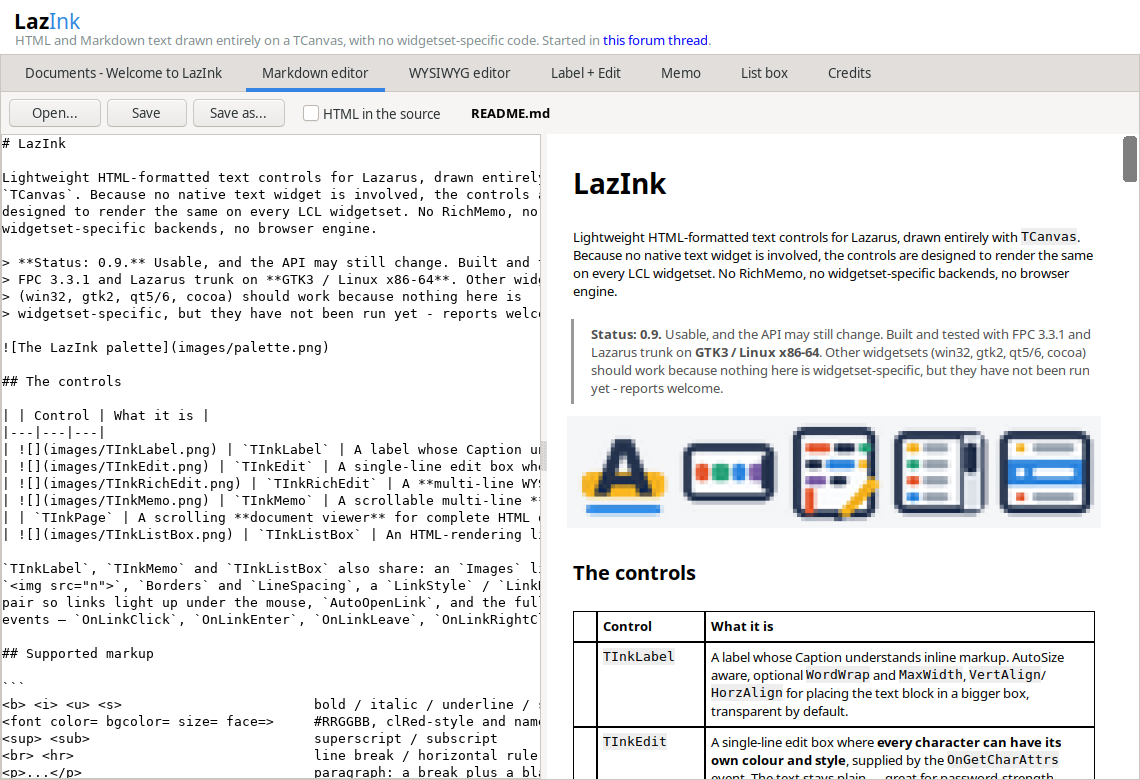
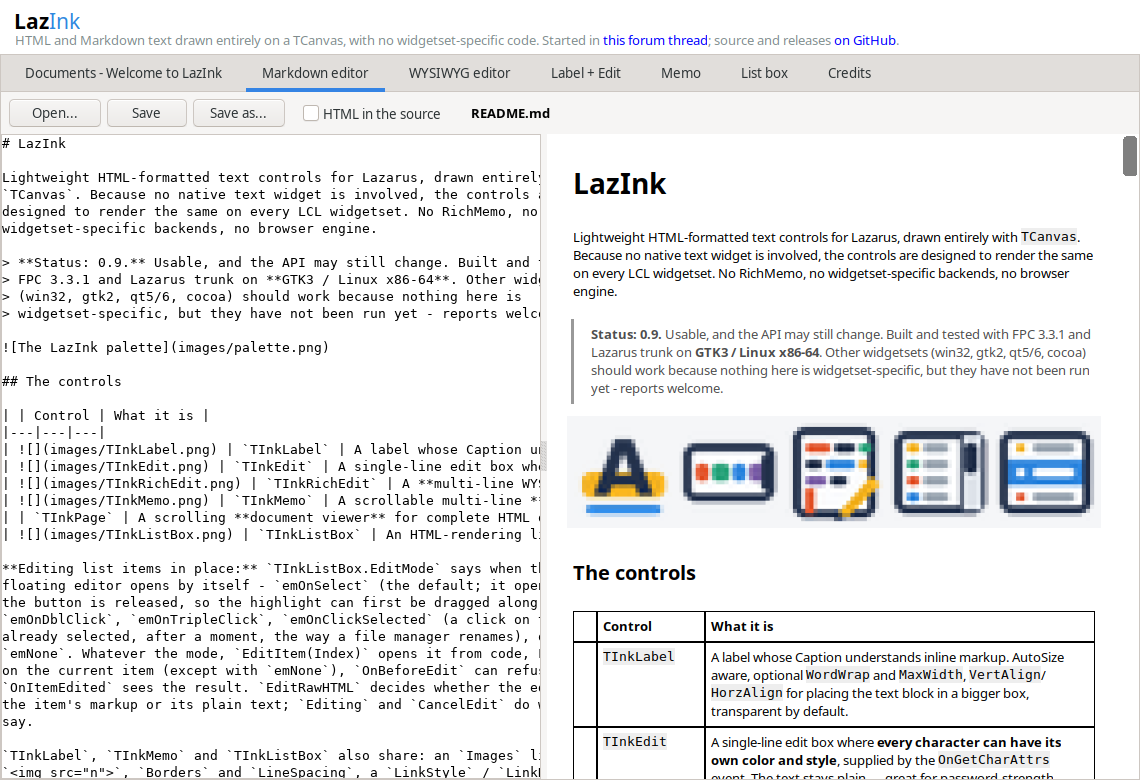
Triple-click, list editing your way, and US spelling
Triple-click did nothing on a page under GTK3: the backend reports a
triple click's third press as a plain press, so ssTriple never came.
TInkPage now counts clicks itself - and does not count GTK's repeated
press of a double click as one more.

TInkListBox:
- EditMode gains emOnTripleClick and emOnClickSelected (a click on the
  selected item, after a moment, as a file manager renames).
- EditItem opens the editor whatever the mode; F2 opens it except with
  emNone; Editing and CancelEdit are public.
- With the button held, the highlight follows the pointer and the list
  scrolls past its ends; emOnSelect opens the editor on the release.
- The first item could never be edited (its top of 0 was read as
  scrolled away), and the floating edit fought the theme over its height
  until LCL stopped with a layout loop.  It keeps its own height now,
  centered on the row, and only moves when something changed.

The demo's List box tab picks the edit mode, and its header links to the
GitHub page as well as the forum thread.

Everything is in US English now: color, center, license, gray.

diff --git a/README.md b/README.md
@@ -17,11 +17,22 @@ widgetset-specific backends, no browser engine.
 | | Control | What it is |
 |---|---|---|
 | ![](images/TInkLabel.png) | `TInkLabel` | A label whose Caption understands inline markup. AutoSize aware, optional `WordWrap` and `MaxWidth`, `VertAlign`/`HorzAlign` for placing the text block in a bigger box, transparent by default. |
-| ![](images/TInkEdit.png) | `TInkEdit` | A single-line edit box where **every character can have its own colour and style**, supplied by the `OnGetCharAttrs` event. The text stays plain — great for password-strength colouring, highlighting digits/symbols, or syntax-colouring markup as it is typed. Full editing: caret, selection, clipboard, MaxLength, ReadOnly, alignment. |
-| ![](images/TInkRichEdit.png) | `TInkRichEdit` | A **multi-line WYSIWYG editor**. The caret and the selection sit inside the rendered text: select a word, call `ToggleStyle(fsBold)`, and that run stops being plain. Per-character colour, background, size, face, style, super/subscript and links; word wrap; paragraph alignment; undo/redo; a `Markup` property that round-trips to the markup below. |
+| ![](images/TInkEdit.png) | `TInkEdit` | A single-line edit box where **every character can have its own color and style**, supplied by the `OnGetCharAttrs` event. The text stays plain — great for password-strength coloring, highlighting digits/symbols, or syntax-coloring markup as it is typed. Full editing: caret, selection, clipboard, MaxLength, ReadOnly, alignment. |
+| ![](images/TInkRichEdit.png) | `TInkRichEdit` | A **multi-line WYSIWYG editor**. The caret and the selection sit inside the rendered text: select a word, call `ToggleStyle(fsBold)`, and that run stops being plain. Per-character color, background, size, face, style, super/subscript and links; word wrap; paragraph alignment; undo/redo; a `Markup` property that round-trips to the markup below. |
 | ![](images/TInkMemo.png) | `TInkMemo` | A scrollable multi-line **viewer** — a log, a transcript, formatted help. Each line of `Lines` is one paragraph of markup, lines can differ in height, optional `WordWrap`. |
 | | `TInkPage` | A scrolling **document viewer** for complete HTML or Markdown pages: headings, lists, tables, code and key labels, PNG and animated GIF images, relative links, anchors, Back and Forward, and a small stylesheet reader. See [Complete help pages](#complete-help-pages). |
 | ![](images/TInkListBox.png) | `TInkListBox` | An HTML-rendering listbox with an in-place editor that floats over the clicked item, holding either its plain text or (with `EditRawHTML`) its markup. Optional `AlternateColor` striping. |
+
+**Editing list items in place:** `TInkListBox.EditMode` says when the
+floating editor opens by itself - `emOnSelect` (the default; it opens when
+the button is released, so the highlight can first be dragged along the list),
+`emOnDblClick`, `emOnTripleClick`, `emOnClickSelected` (a click on the item
+already selected, after a moment, the way a file manager renames), or
+`emNone`. Whatever the mode, `EditItem(Index)` opens it from code, F2 opens it
+on the current item (except with `emNone`), `OnBeforeEdit` can refuse, and
+`OnItemEdited` sees the result. `EditRawHTML` decides whether the editor holds
+the item's markup or its plain text; `Editing` and `CancelEdit` do what they
+say.
 
 `TInkLabel`, `TInkMemo` and `TInkListBox` also share: an `Images` list for
 `<img src="n">`, `Borders` and `LineSpacing`, a `LinkStyle` / `LinkHoverStyle`
@@ -32,7 +43,7 @@ events — `OnLinkClick`, `OnLinkEnter`, `OnLinkLeave`, `OnLinkRightClick`.
 
 ```
 <b> <i> <u> <s>                        bold / italic / underline / strikeout
-<font color= bgcolor= size= face=>     #RRGGBB, clRed-style and named colours
+<font color= bgcolor= size= face=>     #RRGGBB, clRed-style and named colors
 <sup> <sub>                            superscript / subscript
 <br> <hr>                              line break / horizontal rule
 <p>...</p>                             paragraph: a break plus a blank line
@@ -98,7 +109,7 @@ CSS grid cards become a vertical list. No browser engine is added.
 InkPage1.LoadFromFile('/path/to/help/index.html');
 ```
 
-It reads Markdown just as well - a `.md` file is recognised by its name, and
+It reads Markdown just as well - a `.md` file is recognized by its name, and
 `LoadMarkdown` takes a string. Relative images and links are resolved against
 the document. A Markdown document has no stylesheet of its own, so
 `StyleSheet` lets the program dress it in its own theme; the page's own rules,
@@ -117,19 +128,19 @@ face, on a shaded background, and a long line is cut off at the block's edge
 rather than wrapped. Quotes get a bar down their left side.
 
 **Its scrollbar** is drawn by LazInk (`TInkScrollBar`), so it can wear the
-page's colours instead of the platform's grey.  It reads the same CSS a
+page's colors instead of the platform's gray.  It reads the same CSS a
 browser does:
 
 ```css
 html { scrollbar-color: #4ab3e8 #1b1e24; scrollbar-width: thin; }
 ```
 
-`scrollbar-color` is the thumb, then the track - `#rgb`, `#rrggbb`, a colour
+`scrollbar-color` is the thumb, then the track - `#rgb`, `#rrggbb`, a color
 name, `rgb()`/`rgba()`, `currentcolor`, or a `var()` holding any of those.
 `scrollbar-width` is `auto`, `thin` or `none` (none hides the bar; the page
 still scrolls).  Both are read from `html` or `:root`, then `body`.  Without
 them, the track is the page background and the thumb sits halfway between
-that and the text colour, so a dark page gets a dark bar with no CSS at all.
+that and the text color, so a dark page gets a dark bar with no CSS at all.
 `InkPage1.ScrollBar` reaches it from code.
 
 **Touch screens:** drag the page with a finger (or the left mouse button) to
@@ -208,7 +219,7 @@ WYSIWYG editor. Rich-editor table editing is not implemented.
 The shared renderer supports simple `<table>`, `<tr>`, `<th>` and `<td>`
 blocks, including multiple tables mixed with text. Columns are sized from their
 content and narrowed to the available width, cell text wraps, headers are bold,
-and borders use the current font colour. Links inside cells retain click and
+and borders use the current font color. Links inside cells retain click and
 hover support. List boxes now measure variable-height rows, with `ItemHeight`
 as their minimum height.
 
@@ -321,7 +332,7 @@ LazInk renders a **subset** of HTML, on purpose. It is not a web browser:
 * The Markdown is GitHub's, as documents use it, not CommonMark-complete:
   emphasis follows simpler rules than the specification, a link reference
   definition has to fit on one line, and footnotes are not read.
-* LazInk shows code blocks but does not colour them - for that, use SynEdit.
+* LazInk shows code blocks but does not color them - for that, use SynEdit.
 * No built-in HTTP downloads - a host supplies remote content through
   `OnResource`.
 
@@ -350,7 +361,7 @@ survived into the rendered page.
 [ROADMAP.md](ROADMAP.md) is the plan: touch scrolling on Linux, copying and
 selecting text, fuller Markdown, a Markdown editor in the demo; then a
 renderer of LazInk's own, replacing the JVCL-derived one so the whole
-package can move to a no-conditions licence; and a WYSIWYG Markdown editor
+package can move to a no-conditions license; and a WYSIWYG Markdown editor
 after that - with what "done" means for each.
 
 ## Credits and origins
@@ -360,7 +371,7 @@ after that - with what "done" means for each.
 In August 2021 Tony Stone started a thread on the Lazarus forum,
 [Memo Component that supports HTML markup](https://forum.lazarus.freepascal.org/index.php/topic,55971.0.html),
 asking for a simple way to decorate text in list boxes and memos with a
-little HTML - mostly colour and bold - for showing log files, without
+little HTML - mostly color and bold - for showing log files, without
 pulling in a heavyweight HTML component.
 
 **wp** suggested taking what was needed from the HTML drawing code in
@@ -377,13 +388,13 @@ tables.
 ### Where the code comes from today
 
 The HTML renderer (`inkhtml.pas`, with `inktables.inc`) still contains code
-adapted from JVCL, and is under JVCL's licence (MPL 1.1) - see
+adapted from JVCL, and is under JVCL's license (MPL 1.1) - see
 [License](#license) and [the notices](THIRD_PARTY_NOTICES.md).  Everything
 else was written for LazInk.
 
 The plan ([ROADMAP.md](ROADMAP.md), section 4) is to replace that renderer
 with one written for LazInk, so the whole package can be released with
-essentially no conditions.  That is not a judgement on JVCL or on anyone
+essentially no conditions.  That is not a judgment on JVCL or on anyone
 who helped - it is a different view of how this particular code should be
 shared, and it can only be done with code written for it.  The credit below
 stays either way: JVCL and wp's example are what got LazInk off the ground.
@@ -400,10 +411,10 @@ stays either way: JVCL and wp's example are what got LazInk off the ground.
   actually rendered.
 * **skalogryz** - pointed out that a Qt5 memo could do it with low-level
   widget access.
-* **avra** - the RichMemo wiki examples for mixed-colour text, and the IDE
+* **avra** - the RichMemo wiki examples for mixed-color text, and the IDE
   shortcuts for finding lost forms.
 * **Jurassic Pork** - reported that the original demo opened off-screen on a
-  single-monitor machine; the demo centres itself because of that.
+  single-monitor machine; the demo centers itself because of that.
 * **tetrastes** and **denis.totoliciu** - the *Window / Center lost window*
   discussion that came out of it.
 * **Digão Dalpiaz**, whose `TDzHTMLText` label was a source of **ideas** -

diff --git a/docs/RENDERER_CHANGES.md b/docs/RENDERER_CHANGES.md
@@ -18,7 +18,7 @@ or date.
 - **August 31, 2026:** LazInk's initial repository commit (`6ed9062`) includes
   the adapted standalone renderer and component wrappers. Compared with the
   2021 attachment, the accumulated renderer changes include additional font,
-  markup, entity, colour and layout handling.
+  markup, entity, color and layout handling.
 - **August 31, 2026:** commit `3f2b22c` renames `jvclhtmlutils.pas` to
   `inkhtml.pas`, with unit name `InkHtml`.
 - **Through September 16, 2026:** the working renderer adds/refines option
@@ -47,7 +47,7 @@ or date.
   selection. Table layout numbers its parts and does not report while
   measuring.
 - **September 16, 2026:** `HTMLShadeColor` and `HTMLContrastColor` read
-  `clDefault` as the window colour; it had turned a list box's stripes
+  `clDefault` as the window color; it had turned a list box's stripes
   black.
 
 Independent Markdown, page-viewer, CSS and animation helper units are covered

diff --git a/demo/tour.md b/demo/tour.md
@@ -53,7 +53,7 @@ reading a Markdown file that sits beside the demo.
 | `TInkLabel` | a label | HTML, Markdown |
 | `TInkMemo` | a multi-line viewer | HTML, Markdown |
 | `TInkListBox` | a list with an in-place editor | HTML, Markdown |
-| `TInkEdit` | an edit box coloured per character | plain text |
+| `TInkEdit` | an edit box colored per character | plain text |
 | `TInkRichEdit` | a WYSIWYG editor | its own document |
 
 ### Code
@@ -69,7 +69,7 @@ begin
 end;
 ```
 
-LazInk shows code but does not colour it - for that, use SynEdit.
+LazInk shows code but does not color it - for that, use SynEdit.
 
 ### Quotes, rules and the rest
 
@@ -90,3 +90,5 @@ address such as https://www.lazarus-ide.org, entities like &copy; and
 - **Label + Edit**, **Memo** and **List box** - the smaller controls, each
   reading the same markup.
 - **Credits** - where LazInk came from.
+
+LazInk lives at <https://github.com/TonyStone31/LazInk>.
